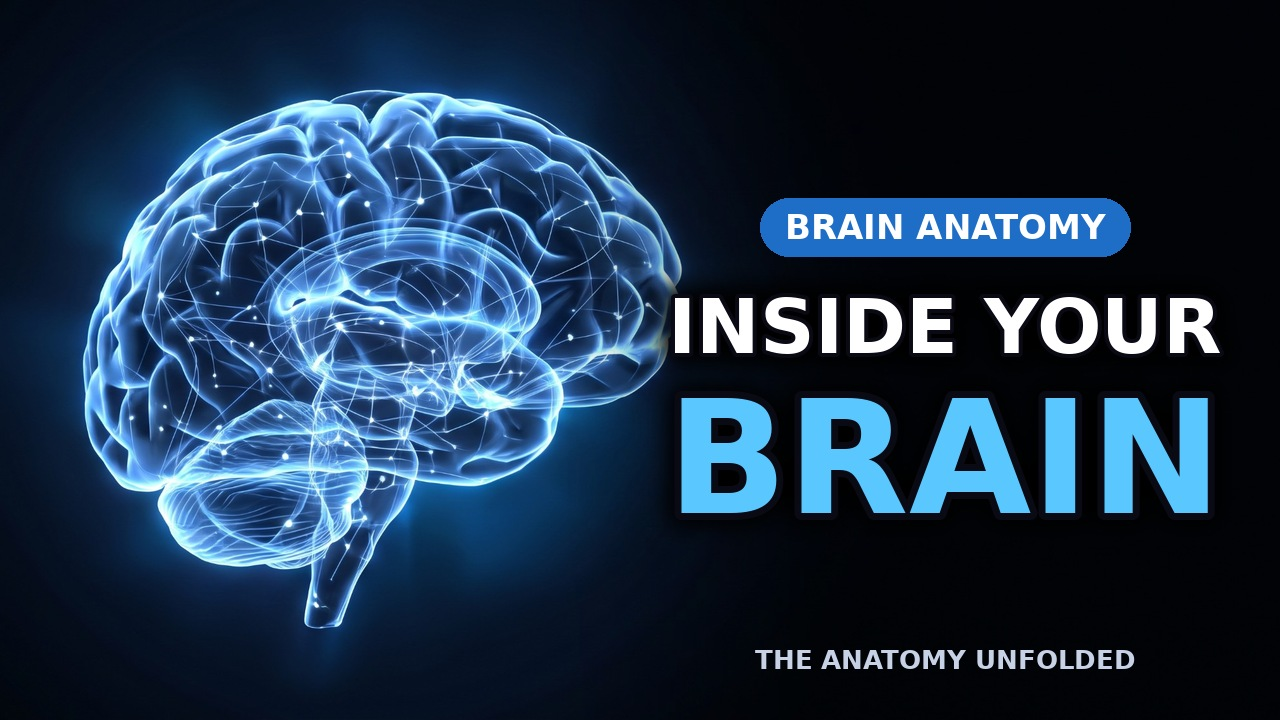
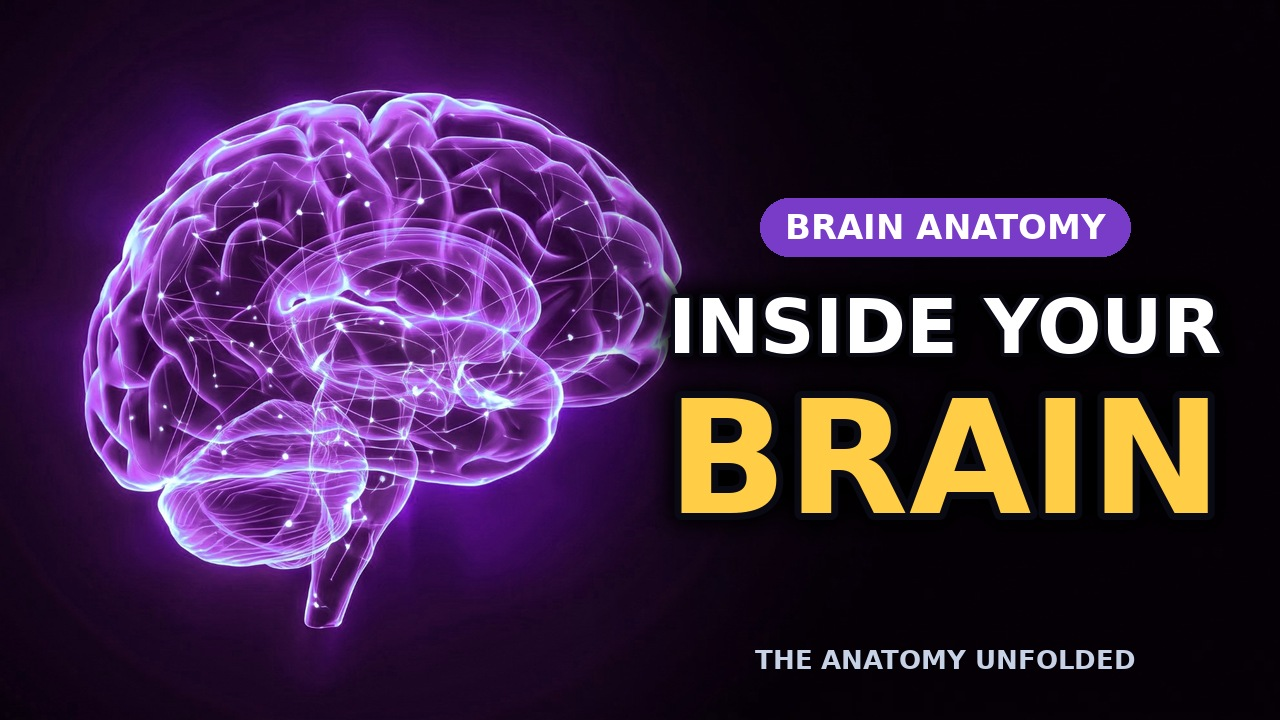
Violet thumbnails for the Nervous System series (Brain, Neurons, Spinal Cord); director rule: recommend and decide first
Claude-Session: https://claude.ai/code/session_014KHa7RhKGUzG1pEih675R6

diff --git a/.claude/skills/anatomy-unfolded-director/SKILL.md b/.claude/skills/anatomy-unfolded-director/SKILL.md
@@ -1,0 +1,29 @@
+---
+name: anatomy-unfolded-director
+description: Owner's standing authority (11 Nov 2026) - Claude acts as film-maker, director, professor and designer for The Anatomy Unfolded and must spot problems and recommend/decide FIRST, before the owner has to ask. Includes the colour-per-system thumbnail palette. Use for every video, Short, thumbnail, script and channel decision.
+---
+
+# Owner's instruction (11 Nov 2026, tidied)
+"I give you all authority. I made you film-maker, director, professor and designer. Act like those. Tell me what is
+wrong or what is better BEFORE I have to ask. That is your benefit to me."
+
+# How it is applied
+- Before doing a request, check it like a director: is it repetitive, weak, confusing, or inconsistent with the channel's
+  look? If yes, say so in one or two lines, give an honest recommendation, and do the better thing (keep the owner's
+  original as a spare).
+- Do not copy an earlier style blindly. Ask "what would make this stand out in the feed and still look like us?"
+- Keep decisions reversible and cheap; tell the owner what changed and why.
+- Medical facts stay checked against NIH / Mayo / Cleveland Clinic / OpenStax; scripts are still shown to the owner
+  for approval before rendering (existing rule).
+
+# Thumbnail palette (same layout, different accent colour per system)
+| System | Accent |
+|---|---|
+| Heart / blood | crimson red |
+| Lungs | ice blue |
+| Brain, neurons, spinal cord (nervous system) | violet / magenta + gold spark, gold big text, violet pill |
+| Digestive | warm orange + green |
+| Kidneys, hormones | teal + gold |
+- Layout stays fixed: organ on the left, pill label + white line + big coloured line + footer on the right.
+- Prompts to the owner's image tool must name the palette (e.g. "violet and magenta glow, gold spark, pure black background").
+- If a picture arrives in the wrong colour, recolour it (hue shift of the blue range, keep the gold) instead of waiting.
